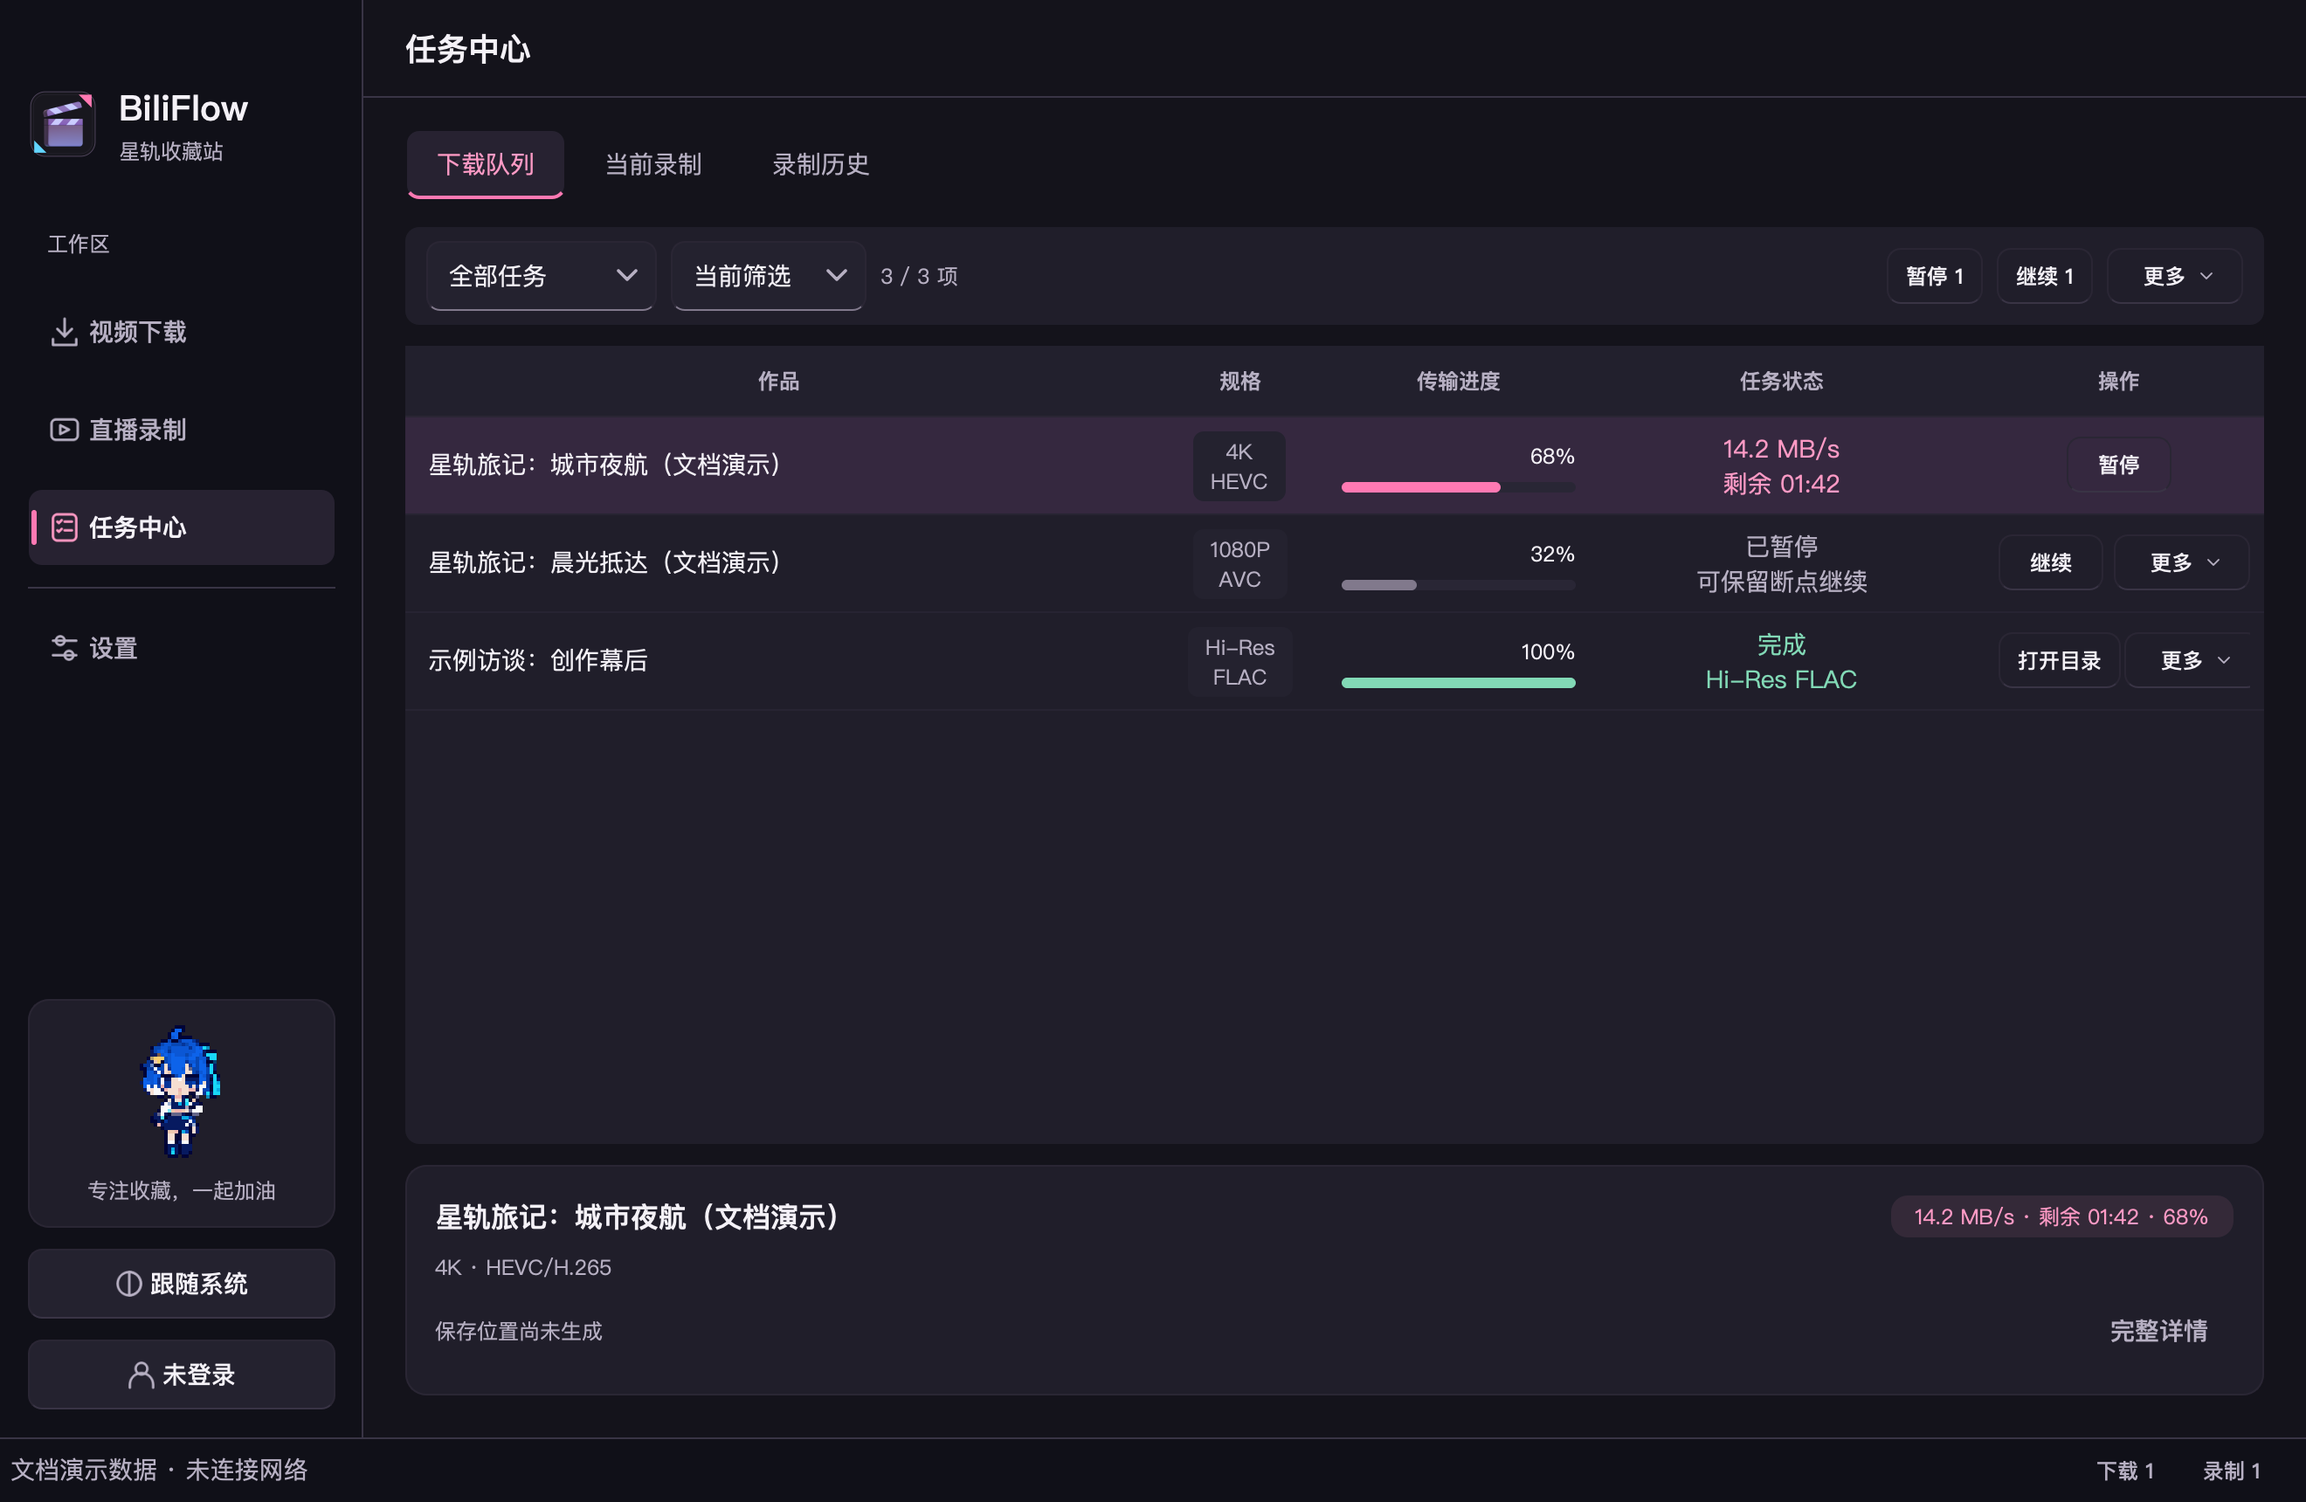
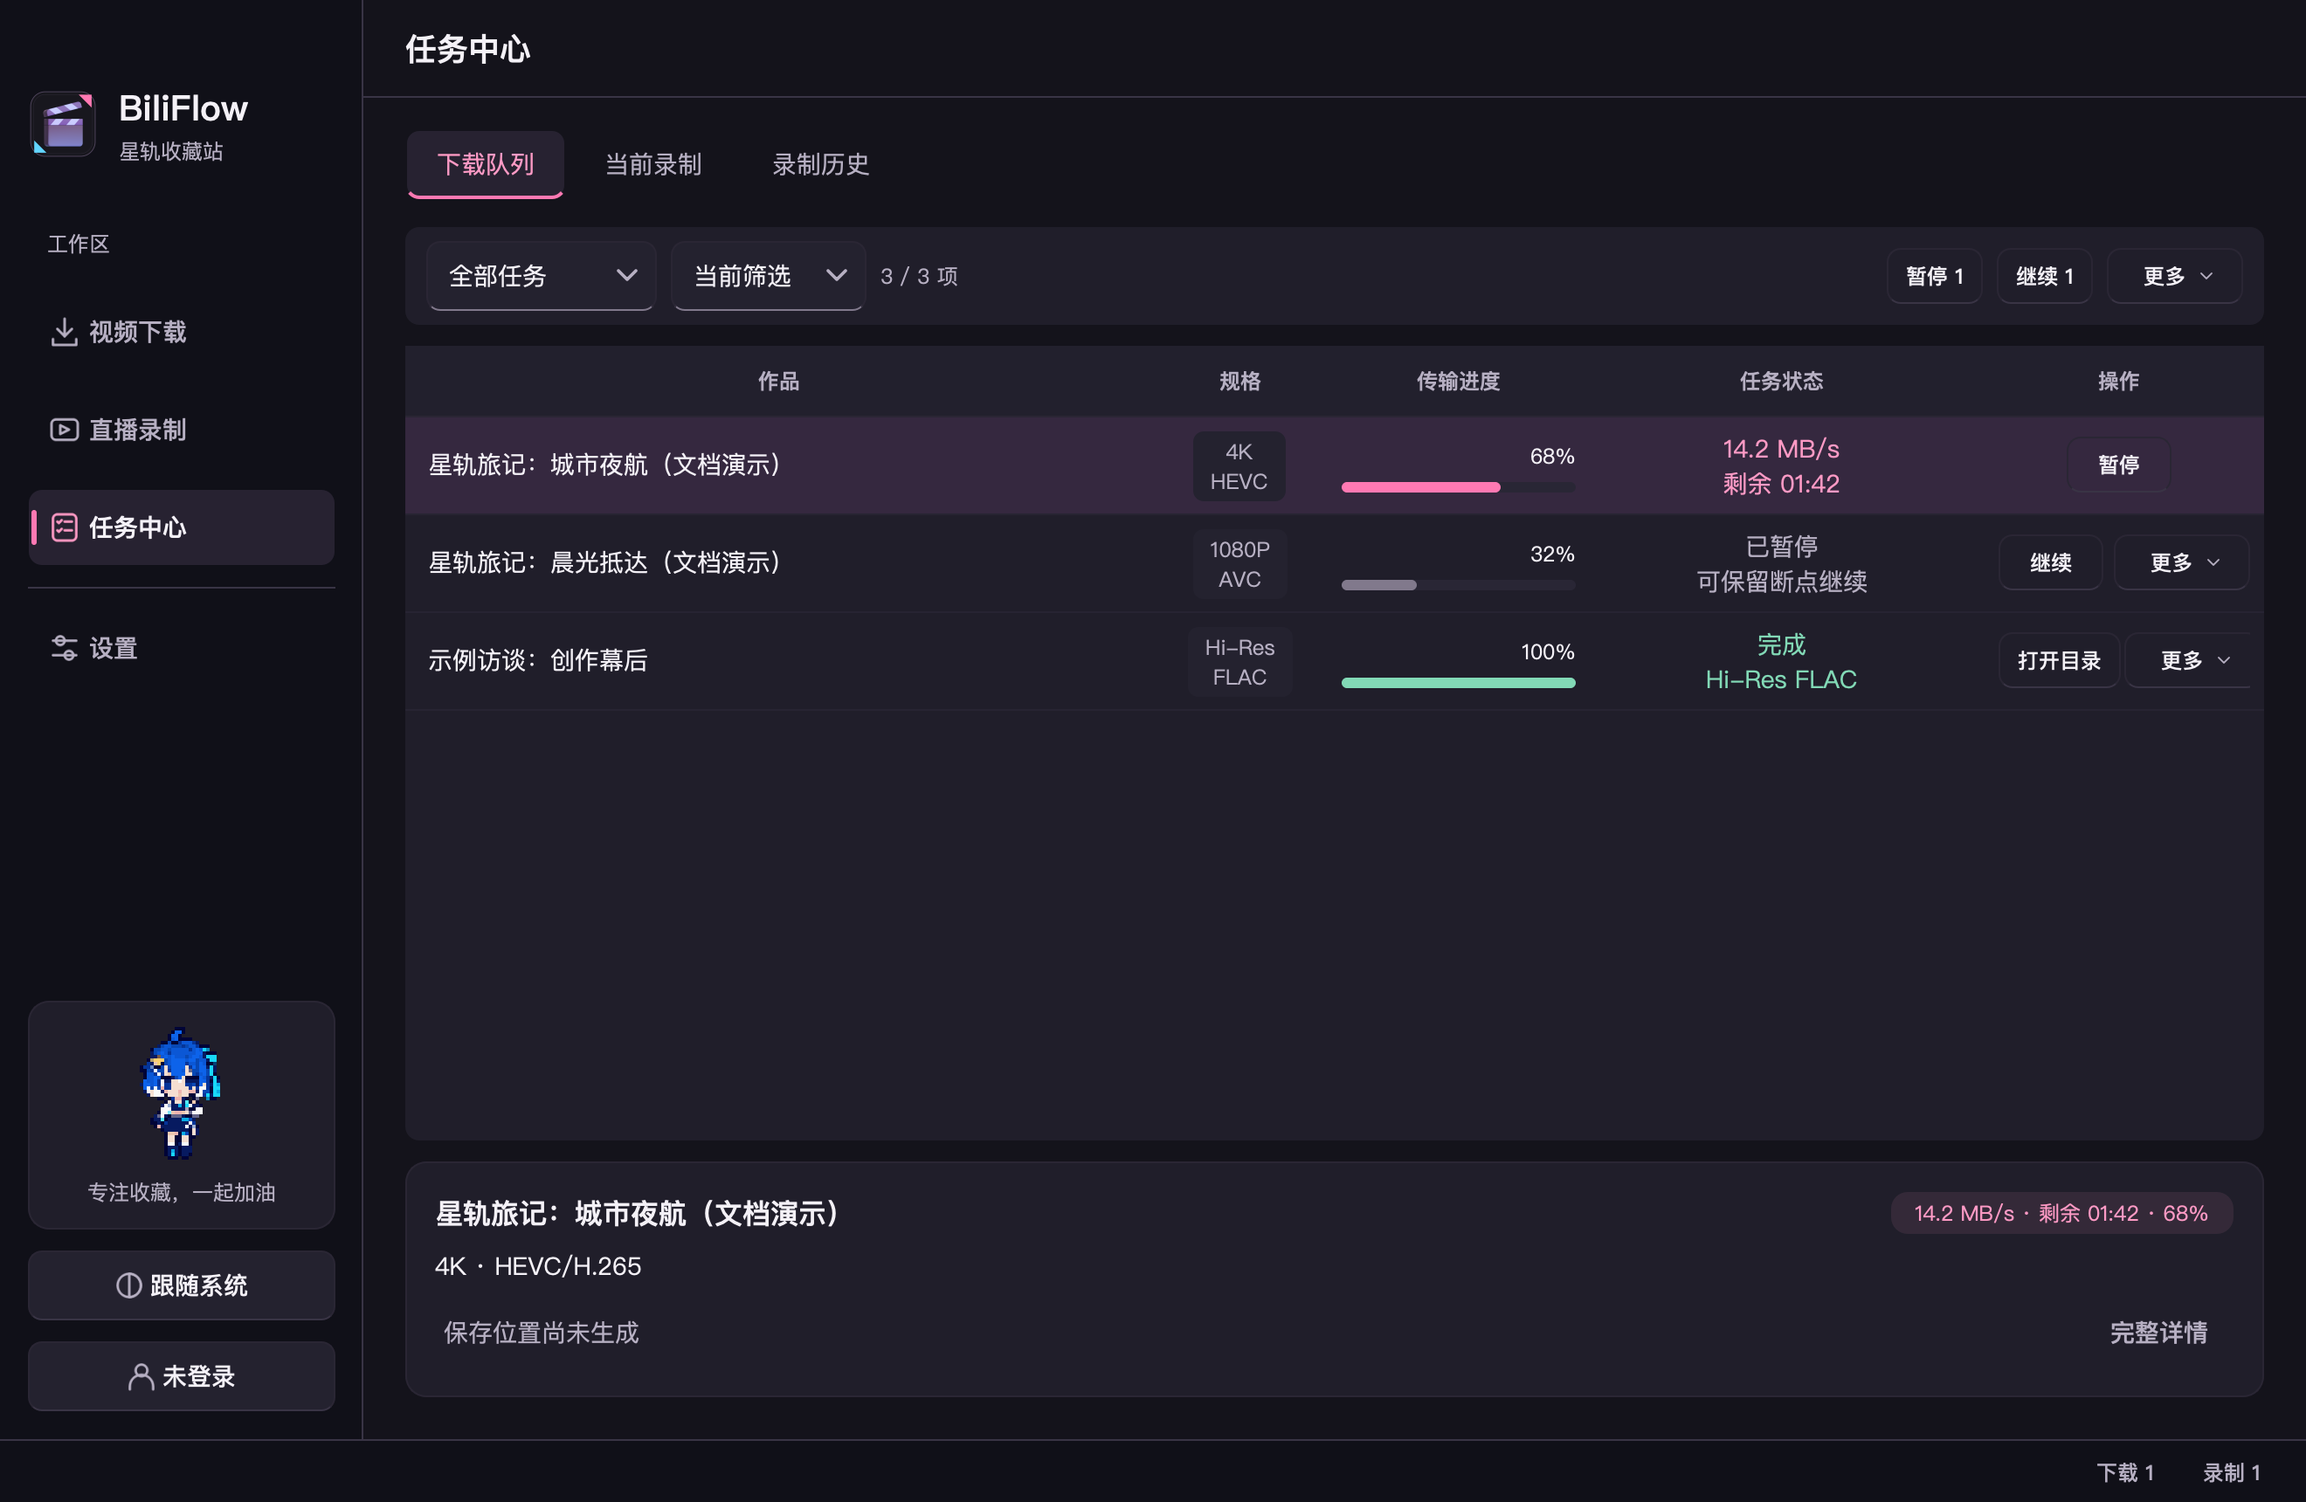
Document Fluent refinement and cross-platform window restoration [skip ci]

diff --git a/docs/FLUENT_V4_VALIDATION.md b/docs/FLUENT_V4_VALIDATION.md
@@ -1,0 +1,72 @@
+# Fluent 全界面精修与窗口记忆验收
+
+2026-10-23，分支 `codex/fluent-design-polish`，基线 `5419b3c`，实现提交 `89fb072`，Windows 状态适配修复 `70e00f6`，最终窗口跨屏记录 `1d31318`。保留 `0.8.9b2` 版本和已有发布标签；本轮没有发布安装包。当前分支预览与已发布 beta 2 的界面有差异。
+
+## 实现与复核
+
+| 区域 | 本轮结果 |
+| --- | --- |
+| 高度响应式 | 低于 800px 进入紧凑模式，达到 824px 恢复舒适模式；边距／卡片内边距／分组间距从 24／16／16 改为 16／12／12；字号、控件和底栏高度不缩小 |
+| 下载与批量 | 紧凑封面 128×72，规格标签同行；去掉正文重复目录，底部目录支持选择、复制和修改入口；字段、字幕依赖与业务流程保留 |
+| 任务与直播 | 详情突出状态、规格和路径，录制指标统一排列；移除记录的撤销同时保留在更多菜单；普通反馈进入固定状态栏，错误和警告留在原区域 |
+| 五类设置 | 共享紧凑边距，工具路径合并分组，检测结果仍按工具隔离；保存栏和草稿语义保留 |
+| 背景预览 | 更新横向摘要、双列规格和紧凑附加内容；预览与实际控件使用相同密度和宽度判断，不启动业务服务 |
+| 弹窗 | 独立弹窗按父窗口屏幕定位，排除嵌入式设置／批量页和原生文件选择器；长诊断使用 Qt 原生可展开滚动详情，支持选择与复制 |
+| 窗口记忆 | 主窗口大小、位置和最大化状态独立保存，显示器变化后限制在可用工作区；托盘和更新退出均保存，不写入设置草稿 |
+
+普通长度下载信息在 1120×760 下完整显示规格、四项附加内容、字幕子选项和确认区。900×640 首屏显示四项核心规格与固定操作，其余由一个外层区域纵向滚动。重排保留控件实例、焦点、选区和草稿。
+
+| 场景 | 修改前 | 修改后 |
+| --- | --- | --- |
+| 下载 · 浅色 · 1120×760 | [查看](images/fluent-v4/download-before.png) | [查看](images/fluent-v4/download-after.png) |
+| 设置 · 深色 · 900×640 | [查看](images/fluent-v4/settings-before.png) | [查看](images/fluent-v4/settings-after.png) |
+| 任务 · 深色 · 900×640 | [查看](images/fluent-v4/tasks-before.png) | [查看](images/fluent-v4/tasks-after.png) |
+| 背景预览 · macOS 原生 | [查看](images/fluent-v4/gallery-before.png) | [查看](images/fluent-v4/gallery-after.png) |
+
+主要文档截图使用 macOS Cocoa 原生捕获；前后对比使用同一离屏后端。完整本地索引为 `build/fluent-v4/index.html`，包含全部页面、关键弹窗、两套配色、深浅模式、三种尺寸、无图／内置／高对比图片，以及音频、长内容、失败、草稿和任务筛选状态。截图使用隔离的离线演示数据，窗口记忆在捕获中显式关闭。当前本地矩阵共 3658 张：修改前 725 张、修改后离屏 861 张、Cocoa 原生 865 张（含四组长诊断）、Windows 原生 871 张、四档窗口按钮 336 张；7332 个本地图片和跳转链接全部有效。
+
+Windows CI 实际截图：[下载页](images/fluent-v4/windows-download-light-1120.png) · [设置页](images/fluent-v4/windows-settings-dark-900.png) · [任务中心](images/fluent-v4/windows-tasks-dark-900.png)。两平台各 120 张主页面截图保持请求尺寸，各 60 个新增状态检查均无意外横向滚动。新增[长诊断原生截图](images/fluent-v4/long-diagnostic-dark.png)展示有界阅读与操作可达。
+
+## 窗口状态规则与验证
+
+`ui-state.json` 位于用户数据目录，格式版本 1，保存正常窗口 Qt 几何、逻辑坐标矩形、屏幕标识、可用工作区和最大化状态。使用 500ms 单次计时器合并写入并原子替换；进入托盘、正常退出、更新重启和应用退出前刷新。
+
+正常尺寸与最大化状态分别记录；最小化和隐藏不覆盖正常几何，也不会让下次启动隐藏。退出全屏时保留此前正常／最大化记录。初始显示前恢复，最大化沿用现有 Win32 原生路径。原屏幕缺失时按旧位置交集选择屏幕，无交集使用主屏幕；处理负坐标与任务栏／Dock。常规最小尺寸为 900×640，可用工作区更小时按窗框扣除后降低有效最小尺寸。
+
+新增 20 项检查覆盖跨进程普通／最大化恢复、原生主窗口最大化及还原、最小化／隐藏、负坐标与失去屏幕、960×540 模拟工作区、损坏记录、原子写入失败、草稿隔离、更新回滚保留、布局临界值、反馈不挤压内容、嵌入式页面边距和长诊断可达性。Windows 同时检查 Win32 的 IsZoomed／IsIconic 与 Qt 标志，避免原生最大化先改变尺寸时，将过渡几何写成正常尺寸。最大化窗口跨屏移动时仍更新屏幕标识，保留原正常尺寸；这一数据规则有隔离回归测试，尚不等同于混合 DPI 多屏实机验收。普通测试不启用生产窗口记录；实际持久化测试使用临时文件。
+
+## 测试与平台记录
+
+本机 macOS arm64，Python 3.11.15，Qt 6.11.2。
+
+| 检查 | 结果 |
+| --- | --- |
+| 完整离屏 pytest | 1061 通过，5 项平台相关跳过 |
+| Cocoa 原生窗口、布局、焦点、Markdown 和生命周期专项 | 120 通过，1 项模拟负坐标桌面检查跳过；该场景在离屏后端通过 |
+| Ruff、编译、diff 检查 | 通过 |
+| macOS CI Python 3.12 | 原生专项 87 通过、1 项模拟桌面跳过；全量 1053 通过、13 项平台相关跳过 |
+| Windows CI Python 3.12 | 原生专项 87 通过、1 项模拟桌面跳过；全量 1052 通过、14 项平台相关跳过 |
+| Windows 100%／125%／150%／200% Qt 缩放 | 四档原生窗口按钮与真实鼠标输入检查通过，336 张桌面截图 |
+| 完整 CI | [39926874047](https://github.com/itsVicOC/bilibili-downloader/actions/runs/39926874047)，15／15 项全部通过，代码提交 `1d31318` |
+
+合成键盘测试显式激活 Qt 测试窗口，避免用户前台应用影响断言；当前 Qt 对这一测试辅助接口产生 4 条弃用警告，运行时代码未使用它。Cocoa 测试需访问原生输入和剪贴板服务，沙盒内服务连接失败的运行不计入结果；最终原生记录来自允许访问桌面服务后的运行。
+
+保留原有正文、说明、状态及文本选区对比度检查。用户确认的粉底白字配色不变，粉色主按钮的对比度例外与[第三轮记录](FLUENT_V3_VALIDATION.md#对比度性能与平台边界)一致，不作为普通文字 4.5:1 达标项。共享玻璃缓存、动画收敛和滚动回归继续执行；窗口记忆使用单次计时器，停止后不轮询。
+
+十二景原图与运行时资源未修改：24 个背景／缩略图文件合计 8,130,355 字节（7.75 MiB），保留所有 ID 和路径。公共 API、CLI、业务设置和数据库结构未修改；窗口文件不参与业务数据回滚。
+
+Windows CI 的原生窗口、鼠标输入及四档 Qt 缩放与用户实机分别记录。Windows 11、100%、单屏实机，实际 Snap 浮层、系统 DPI 切换和混合 DPI 多屏尚未获得本轮实际验证，不标记为通过。Linux 仅执行离屏自动验证，Wayland 原生绝对位置恢复未实际验证。
+
+## 复现与截图索引
+
+```bash
+QT_QPA_PLATFORM=offscreen python -m pytest -q
+ruff check bilibili_downloader tests scripts packaging_hooks
+python -m compileall -q bilibili_downloader tests scripts
+python -m scripts.capture_docs_screenshots --output-dir build/fluent-v4/after/star_trail
+python -m scripts.capture_docs_screenshots --color-theme bilibili_blue --output-dir build/fluent-v4/after/bilibili_blue
+python -m scripts.capture_docs_screenshots --refinement-only --output-dir build/fluent-v4/after/refinement
+python -m scripts.build_fluent_review --root build/fluent-v4 --title 'BiliFlow 第四轮 Fluent 精修与窗口记忆'
+```
+
+原生捕获追加 `--native --physical-pixels`；完整补充矩阵使用 `--glass-only`、`--appearance-controls-only` 和 `--ui-refresh-only`。窗口专项为 `tests/test_window_state.py` 与 `tests/test_fluent_window_polish.py`。完整结果和日志保存在 `build/fluent-v4/`。

diff --git a/docs/FLUENT_DESIGN.md b/docs/FLUENT_DESIGN.md
@@ -10,6 +10,23 @@
 
 普通内容边界、行分隔和表头采用更轻的中性色；浮层与确认区使用独立边界参数。正文和表单标签为 14px，作品标题 18px；背景资源、材质缓存、窗口适配和业务流程沿用现有实现。截图、测试与跨平台边界见[第三轮验收](FLUENT_V3_VALIDATION.md)。
 
+## 第四轮：高度适配与窗口记忆
+
+主窗口客户区低于 800px 时使用紧凑布局，达到 824px 后恢复舒适布局；首次按当前高度判断。共享布局策略由实际控件与背景预览共同使用，保留字段值、选区与焦点。
+
+| 项目 | 舒适 | 紧凑 |
+| --- | --- | --- |
+| 页面边距／卡片内边距／分组间距 | 24／16／16px | 16／12／12px |
+| 下载封面 | 最大 176×99px | 128×72px |
+| 下载规格标签 | 字段上方 | 字段同行 |
+| 控件与底栏 | 40／44／32px，确认区 72px，设置保存栏 56px | 保持相同尺寸 |
+
+保存目录仅在确认区展示，支持选择、复制和跳转下载设置。成功及普通信息使用固定状态栏，约八秒后消失；移除记录的撤销入口同时保留在任务更多菜单。错误和警告留在相关区域，长诊断使用 Qt 原生可展开、可复制的滚动详情。
+
+窗口状态单独原子写入用户数据目录的 `ui-state.json`，移动／缩放后合并延迟 500ms，隐藏、退出和更新重启前立即保存。记录正常窗口几何与最大化状态，恢复时检查屏幕工作区、负坐标和窗框；最小化／全屏不会成为下次启动状态。桌面入口默认启用，嵌入式宿主、普通测试和截图工具不启用。只保存主窗口，不改变业务配置和更新回滚快照。
+
+实现与平台验证见[第四轮验收](FLUENT_V4_VALIDATION.md)。
+
 ## 视觉参数
 
 | 项目 | 规范 |

diff --git a/README.md b/README.md
@@ -74,7 +74,7 @@
 
 `v0.8.9b2`（0.8.9 beta 2）基于 `codex/fluent-design-polish` 分支继续 [Fluent Design 精修](docs/FLUENT_DESIGN.md)：统一中性材质与状态反馈，修复 Windows 窗口按钮的底色、悬停和最大化／还原行为，支持 Markdown 更新说明，并修正四张背景的手部。保留粉紫／青蓝、小流、粉底白字、现有导航及下载／录制流程。试用请查看 [beta 2 预发布版](https://github.com/itsVicOC/bilibili-downloader/releases/tag/v0.8.9b2)；自动更新需选择包含预发布版的通道。稳定版仍为 `v0.8.8`。[更新日志](CHANGELOG.md#v089b2---2026-10-23) · [第二轮验收](docs/FLUENT_V2_VALIDATION.md) · [背景手部对比](docs/BACKGROUND_HAND_REVIEW.md)。
 
-当前分支的截图展示第三轮 Fluent 精修：横向作品摘要、紧凑附加内容与设置保存栏、任务更多菜单。该轮改动尚未纳入上述 beta 2 安装包，效果对照与验证范围见[第三轮验收](docs/FLUENT_V3_VALIDATION.md)。
+当前分支继续进行 Fluent 精修：支持矮窗口紧凑布局，统一目录、反馈与背景预览，并自动记住主窗口大小、位置和最大化状态。分支改动尚未纳入上述 beta 2 安装包，效果对照与验证范围见[第四轮验收](docs/FLUENT_V4_VALIDATION.md)。
 
 ## 下载与安装
 

diff --git a/docs/UI_DESIGN.md b/docs/UI_DESIGN.md
@@ -1,5 +1,7 @@
 # BiliFlow 视觉规范与验证
 
+当前分支已完成第四轮精修：矮窗口密度、目录与状态反馈、工具设置、背景效果预览，以及主窗口大小／位置／最大化状态记忆。布局参数和恢复规则见 [Fluent 规范](FLUENT_DESIGN.md)，最新前后截图及平台边界见[第四轮验收](FLUENT_V4_VALIDATION.md)。下文保留此前各轮的设计依据与历史截图。
+
 ## 第三轮 Fluent 精修（2026-10-23，开发分支）
 
 下载页采用横向作品摘要、响应式双列规格与 40px 附加内容行，设置保存栏压缩至固定 56px，任务中心收拢低频操作并支持工具栏换行。共用表面、表头、字段标签、菜单与弹窗同步调整，保留现有配色、小流和背景。当前实现不修改版本号或发布标签；[第三轮验收](FLUENT_V3_VALIDATION.md)记录效果图对照、前后截图、测试及实际平台验证范围。
